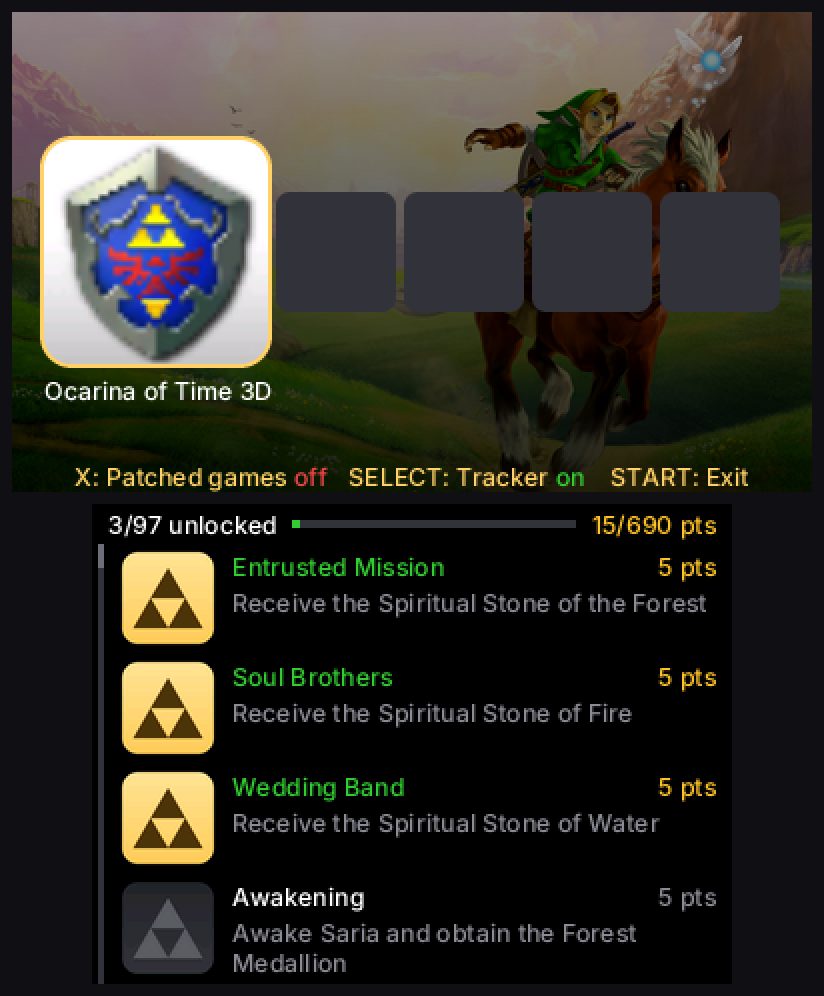
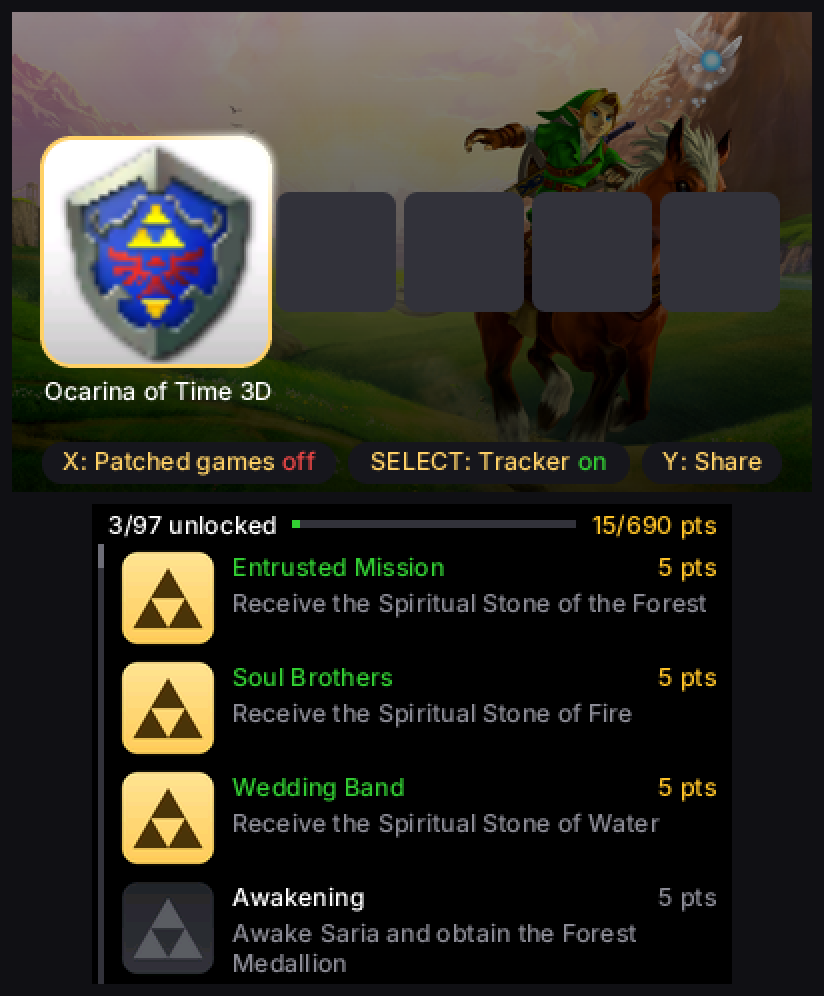
updated readme

Changed region(s): [[0.0303, 0.4357, 0.9709, 0.498], [0.182, 0.1245, 0.3337, 0.249]]

diff --git a/README.md b/README.md
@@ -6,7 +6,7 @@ A background module watches the running game's memory. When you earn an achievem
 
 | The app | In-game (R + A + Left) |
 |---|---|
-| <img src="assets/screenshots/app.png" alt="The app, with Ocarina of Time 3D selected and its achievements listed on the bottom screen" width="400"> | <img src="assets/screenshots/in-game-menu.png" alt="The in-game achievement list on the bottom screen" width="400"> |
+| <img src="assets/screenshots/app.png" alt="The app, with Ocarina of Time 3D selected, the button hints along the bottom of the top screen and its achievements listed on the bottom screen" width="400"> | <img src="assets/screenshots/in-game-menu.png" alt="The in-game achievement list on the bottom screen" width="400"> |
 
 ## Supported games
 
@@ -40,6 +40,10 @@ To update, copy a newer zip over the old files. Your unlocks are kept.
 In a game, press **R + A + Left** to pause and see your achievements. B or SELECT closes the list.
 
 **Sharing:** press Y to make an image of the selected game's progress. With the 3DS on Wi-Fi, scan the QR code on the bottom screen with a phone on the same network. A page opens with the image and a **Save image** button; on an iPhone, touch and hold the image to save it to Photos. The 3DS sends it itself, so nothing is uploaded anywhere. Press A to save the image on the SD card instead, in `/achievements/share/`.
+
+| The share screen (Y) | The image you get |
+|---|---|
+| <img src="assets/screenshots/share.png" alt="The share screen: the image on the top screen, and on the bottom a QR code to scan with a phone, the link it opens, and A: Save to SD, B: Back" width="400"> | <img src="assets/screenshots/share-image.png" alt="The shared image: 3DS Achievements, the Ocarina of Time 3D icon in a gold frame over the game's art, its name, and a progress bar with 3/97" width="400"> |
 
 When you open the app on Wi-Fi, it checks this repository's `main` branch and asks before downloading new games or achievements.
 
